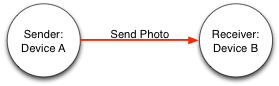
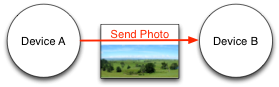
dag-2

diff --git a/README.md b/README.md
@@ -47,12 +47,15 @@ BOMTalk needs only two classes to interact with: BOMTalk and to a lesser extend 
 
 ## Your Protocol
 
-Although BOMTalk is built to let your APPs "talk" to each other, you need to define the "language" or the "protocol" to achieve this interaction. This protocol is sometimes described by [DAGs](http://bit.ly/5UhB), a neat way to visualize the different states and the connections between them. Basically you draw circles for the states/devices and connect them with arrows. These arrows are the messages (with optional payload/data) which are sent between devices/APPs. In BOMTalk each messages is a number (with optional payload/data) and could be as simpel as this one-direction protocol:
+Although BOMTalk is built to let your APPs "talk" to each other, you need to define the "language" or the "protocol" to achieve this interaction. This protocol is sometimes described by [DAGs](http://bit.ly/5UhB), a neat way to visualize the different states and the connections between them. Basically you draw circles for the states/devices and connect them with arrows. These arrows are the messages (with optional payload/data) which are sent between devices/APPs. In BOMTalk each messages is a number (with optional payload/data) and could be as simpel as this one-direction protocol, sending one photo directly to another device:
 
 <img src="https://raw.github.com/omichde/BOMTalk/master/Sample/dag.png">
 [dag.png](https://raw.github.com/omichde/BOMTalk/master/Sample/dag.png)
 
-Depending on your APP logic and needs you most probably add much more messages to your APP.
+Depending on your APP logic and needs you most probably add much more messages to your APP. For example, *requesting* a photo from another device requires two messages:
+
+<img src="https://raw.github.com/omichde/BOMTalk/master/Sample/dag-double.png">
+[dag-double.png](https://raw.github.com/omichde/BOMTalk/master/Sample/dag-double.png)
 
 Testing your "protocol" can be an extremely tedious task: modelling states in APPs takes some time to figure out correctly, network connections are unreliable, they are delayed or will never arrive at all. For that reason, BOMTalk offers a basic network messaging debugger BOMTalkDebugViewController (on top of GameKit) with a timeline of appearing and disappearing peers and events/messages between those peers.
 
